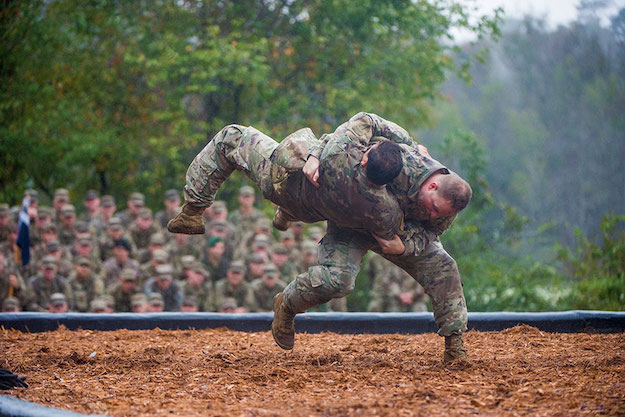
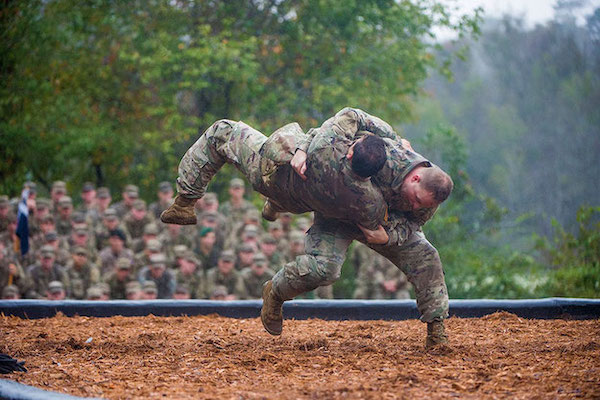
commit

diff --git a/ACFT SDC.html b/ACFT SDC.html
@@ -50,7 +50,7 @@
     <div class = "PTsegment">
       <label>SPRINT-DRAG-CARRY (SDC)</label>
       <p>In SDC event, the personnel conducts 50-meter shuttles for time in five areas: sprint, drag, lateral, carry and sprint. The SDC is a test of strength, endurance, and anaerobic capacity, which are needed to accomplish high intensity combat tasks that last from a few seconds to several minutes.</p>
-      <img src="https://www.army.mil/e2/images/rv7/acft/drag/application.jpg" class="showing" style="width: 100%">
+      <img src="./img/SDC/SDC cover.jpg" class="showing" style="width: 100%">
     </div>
 
     <div class="PTsegment">
